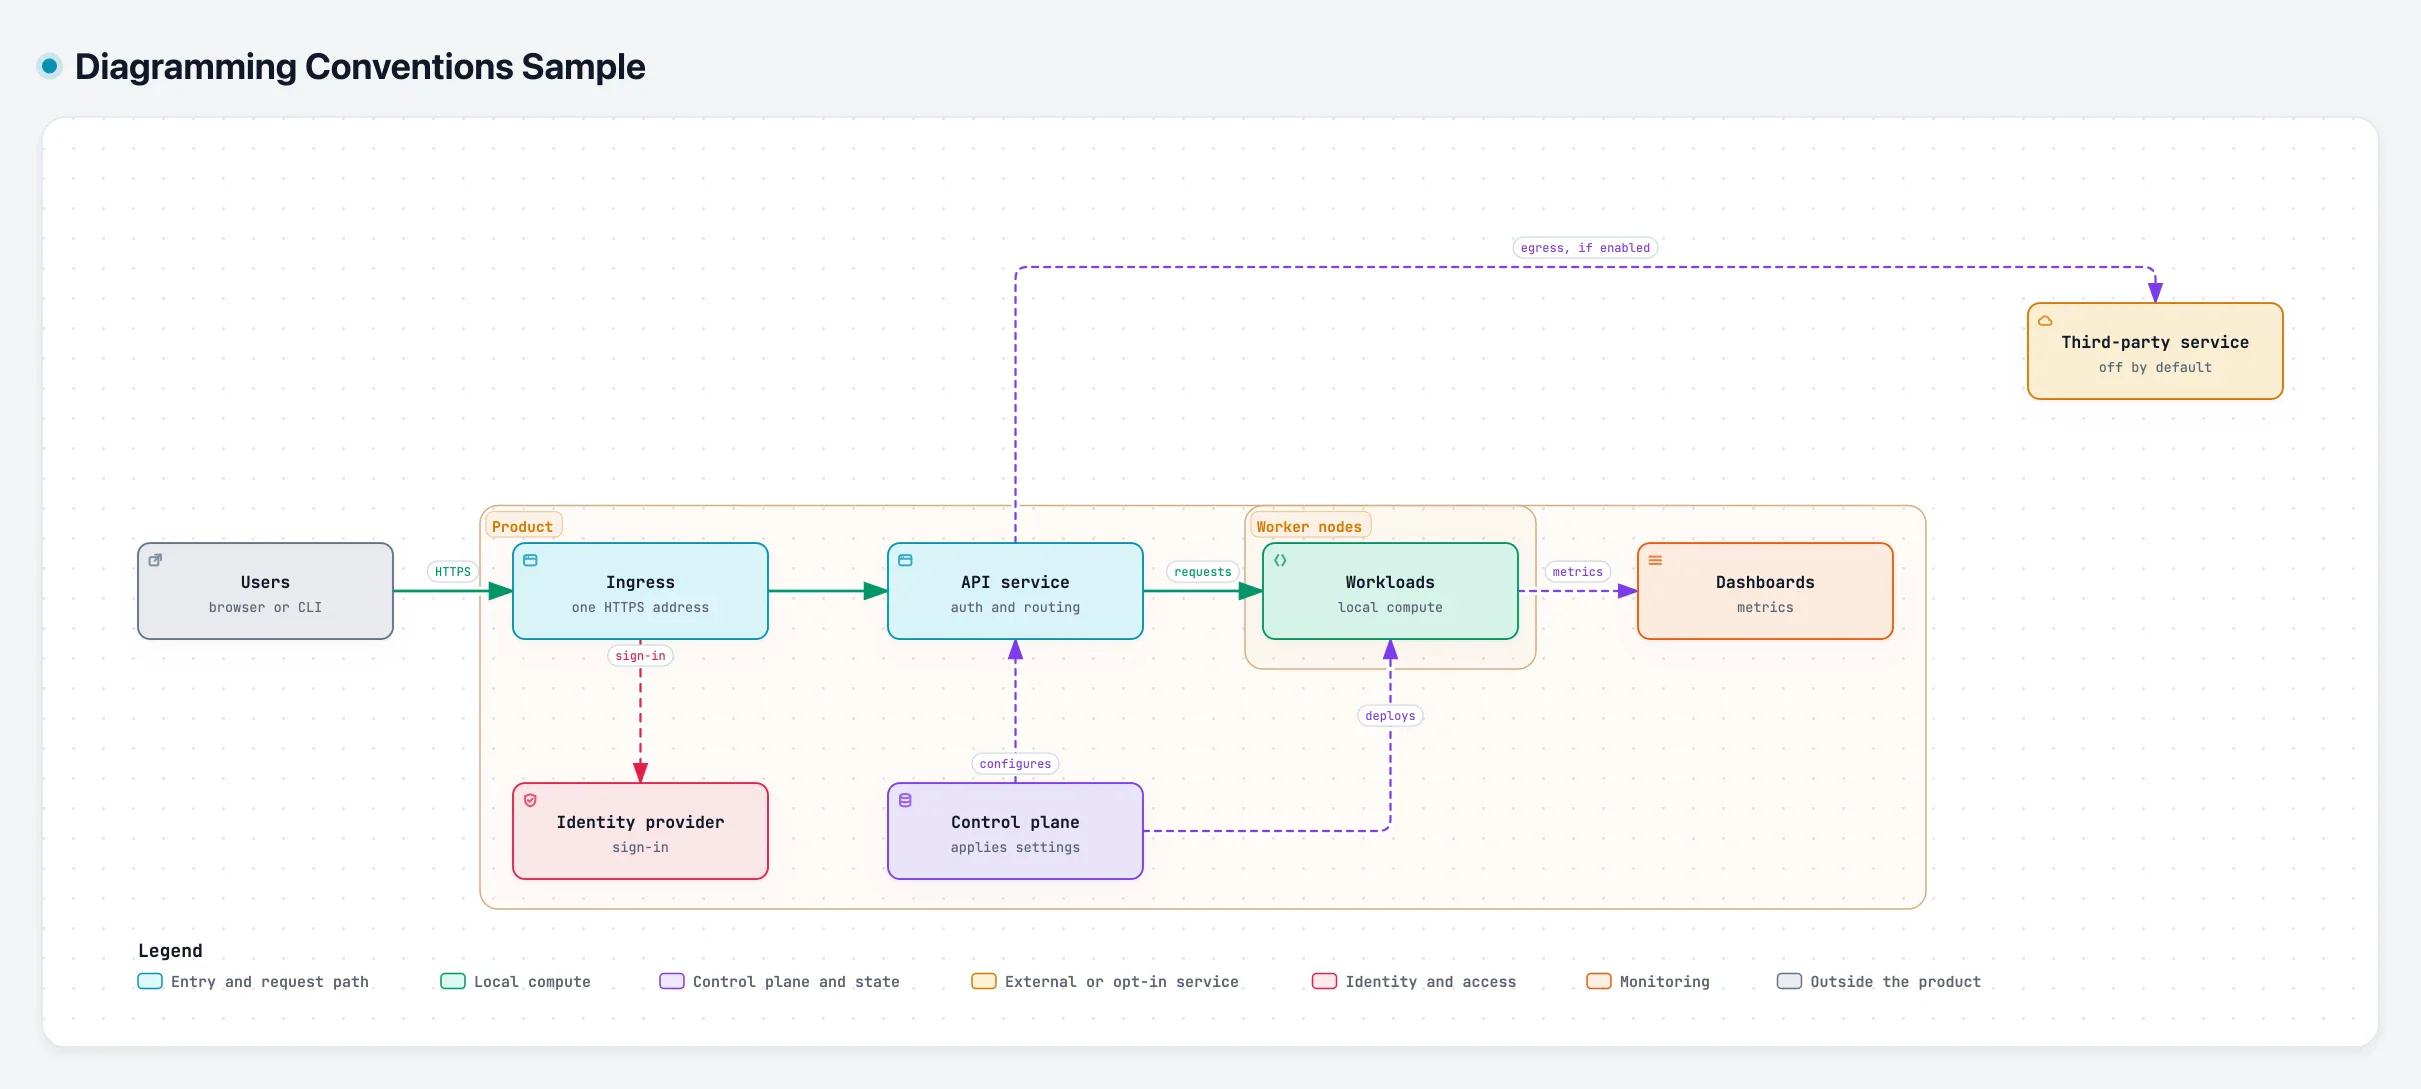
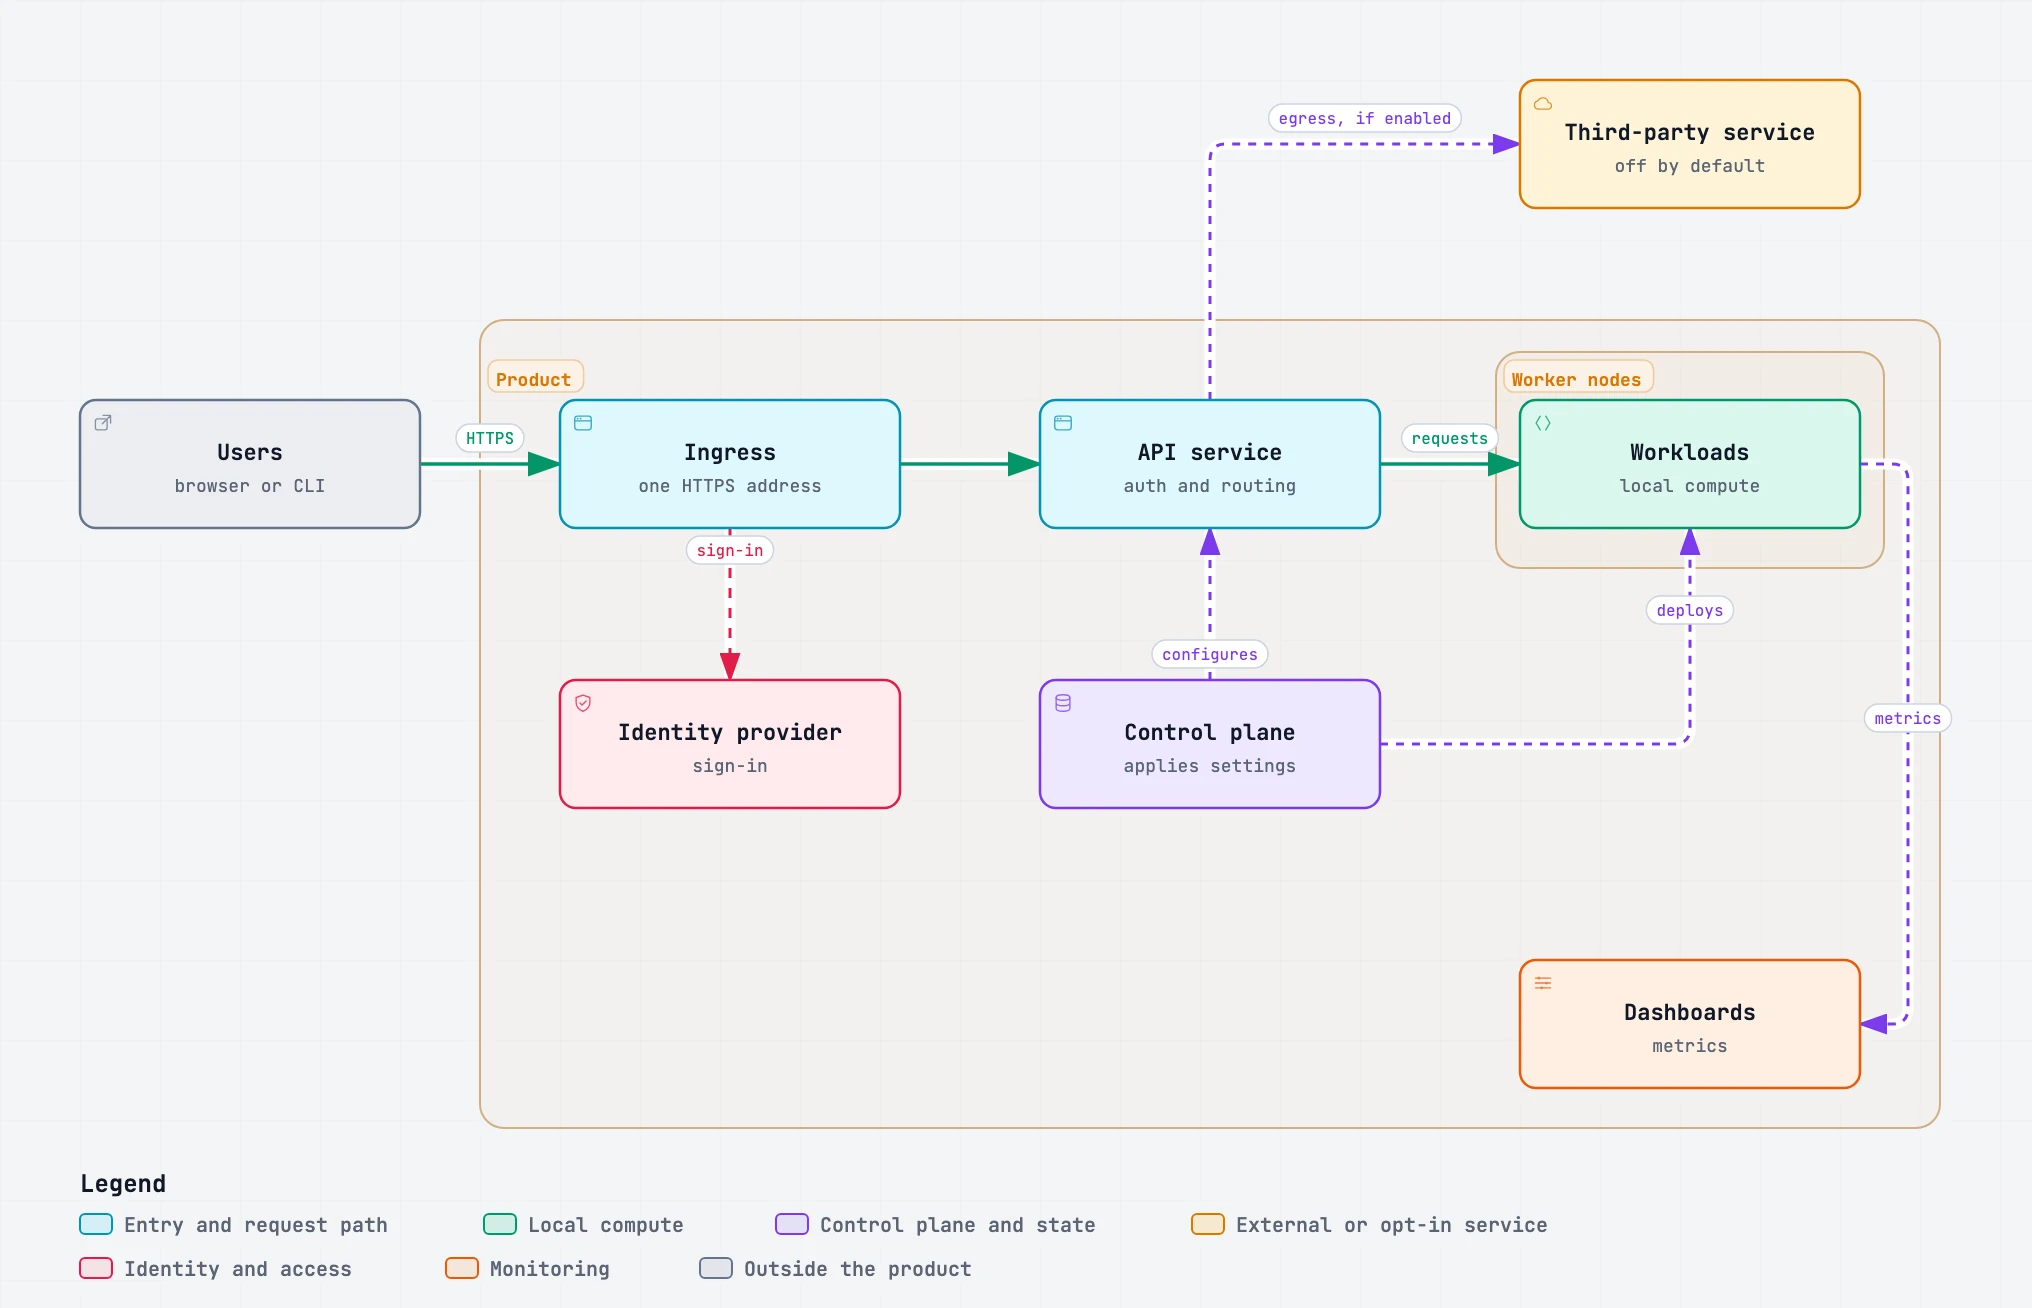
docs: enlarge the DOC-3368 diagram text and drop the export title and frame
The architecture diagram moves to a four-column layout, so its canvas shrinks from 1,510 to 1,016 pixels wide and its text renders about half again as large on the page.

The export script now rasterizes the viewer's bare SVG export, so the image no longer carries the Archify title and grey frame.

The conventions sample uses the same compact layout, and the Layout section now tells authors to keep the canvas to about four columns because Archify's font sizes are fixed.

diff --git a/docs/contributing/markdown-and-mdx.md b/docs/contributing/markdown-and-mdx.md
@@ -266,6 +266,9 @@ Components outside the product, such as users and third-party services, stay out
 it for a hardware grouping, such as the components that run on GPUs. Use a `security-group` boundary for a network or
 trust boundary.
 
+A boundary's `pad` sets the space between the boundary and the components it wraps. Raise it, such as to `40`, when a
+connection has to run along the inside edge of the boundary, so that the connection stays inside it.
+
 #### Label Style
 
 Component labels are short noun phrases. Sub-labels below the component name carry one short detail, such as _admin web
@@ -277,11 +280,17 @@ the page prose instead.
 
 #### Layout
 
-Place components with `pos` on a grid so that rows and columns line up, and give every component the same `size`, such
-as `[170, 64]`. Columns about 250 pixels apart and rows about 160 pixels apart leave room for connection labels.
+Archify uses fixed font sizes, and the docs site scales a diagram down to the width of the page. The wider the canvas,
+the smaller its text appears on the page. Keep the canvas to about 1,000 pixels wide, which is four columns of
+components, and grow the diagram downward instead of sideways.
 
-Lay out the main request path from left to right in one row. Put the control plane and other supporting components in
-the rows below it, and external services to the right, outside the product boundary.
+Place components with `pos` on a grid so that rows and columns line up, and give every component the same `size`, such
+as `[170, 64]`. Columns 240 pixels apart, starting at `x` 40, and rows 140 pixels apart leave room for connection
+labels.
+
+Lay out the main request path from left to right in one row, with the people and clients outside the product in the
+first column. Put the control plane and other supporting components in the rows below it, and external services in a row
+above it, outside the product boundary.
 
 Keep the diagram to a single canvas. If a diagram feels too dense to fit, split it into two diagrams on separate anchors
 rather than shrinking the components. Two clear pictures always beat one crowded one.
@@ -349,8 +358,9 @@ intermediate PNG, or the review files that Archify writes.
      static/assets/docs/images/diagramming-conventions_sample.webp
    ```
 
-   The script exports the diagram in the light theme at four times its size, then converts it to webp at half that size
-   so that it stays crisp on high-density displays.
+   The script exports the diagram in the light theme, without the title and frame that the Archify viewer adds to its
+   own image exports, so that the diagram fills the page width. It renders the diagram at twice its size so that it
+   stays crisp on high-density displays.
 
 Commit both the updated JSON source and the regenerated webp in the same change so that the source and the image stay in
 sync.
